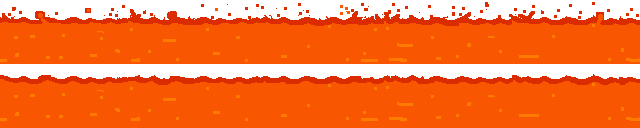
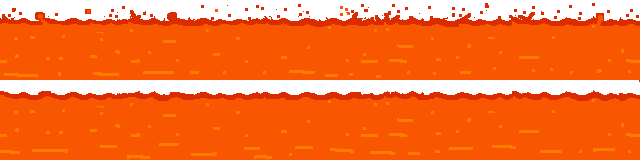
マグマ画像修正
サイズ64から80に変更

diff --git a/TGS2024/Magma.cpp b/TGS2024/Magma.cpp
@@ -9,7 +9,7 @@ Magma::Magma(float set_x, float set_y)
 	width = 128.0f;
 	height = 64.0f;
 
-	LoadDivGraph("images/Stage/Gimmick/Magma.png", 10, 5, 2, 128, 64, magma_img);
+	LoadDivGraph("images/Stage/Gimmick/Magma.png", 10, 5, 2, 128, 80, magma_img);
 	LoadDivGraph("images/Stage/Gimmick/MagmaEffect.png", 4, 4, 1, 168, 84, magma_effect_img);
 
 	img_num = 0;
@@ -62,13 +62,13 @@ void Magma::Update()
 void Magma::Draw() const
 {
 	// マグマ画像の描画
-	DrawRotaGraph((int)location.x, (int)location.y, 1.0, 0.0, magma_img[img_num], TRUE);
+	DrawRotaGraph((int)location.x, (int)location.y-10, 1.0, 0.0, magma_img[img_num], TRUE);
 	if (is_any_damage == true)
 	{
 		DrawRotaGraph((int)location.x, (int)location.y-20, 1.0, 0.0, magma_effect_img[effect_img_num], TRUE);
 	}
 	// 頂点の確認
-	DrawBox((int)box_vertex.right_x, (int)box_vertex.upper_y, (int)box_vertex.left_x, (int)box_vertex.lower_y, 0x00ffff, FALSE);
+	//DrawBox((int)box_vertex.right_x, (int)box_vertex.upper_y, (int)box_vertex.left_x, (int)box_vertex.lower_y, 0x00ffff, FALSE);
 }
 
 bool Magma::GetAnyDamageFlg() const
